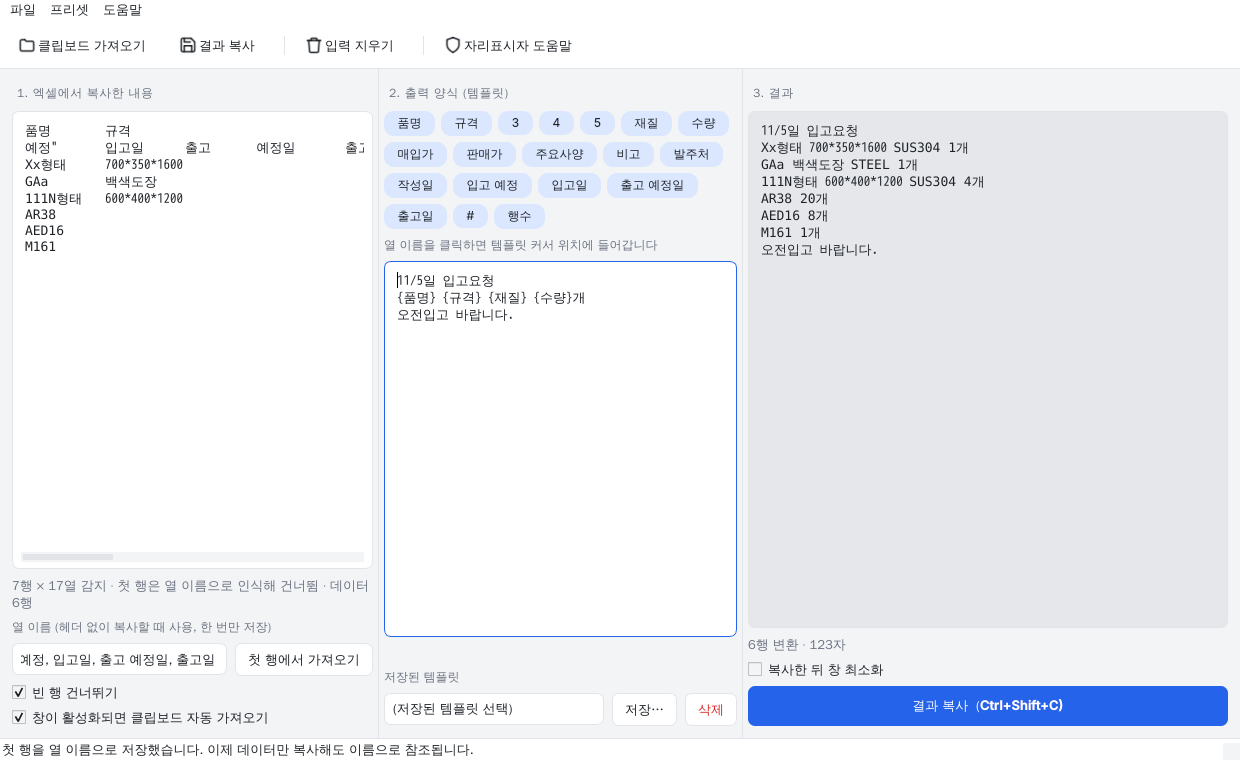
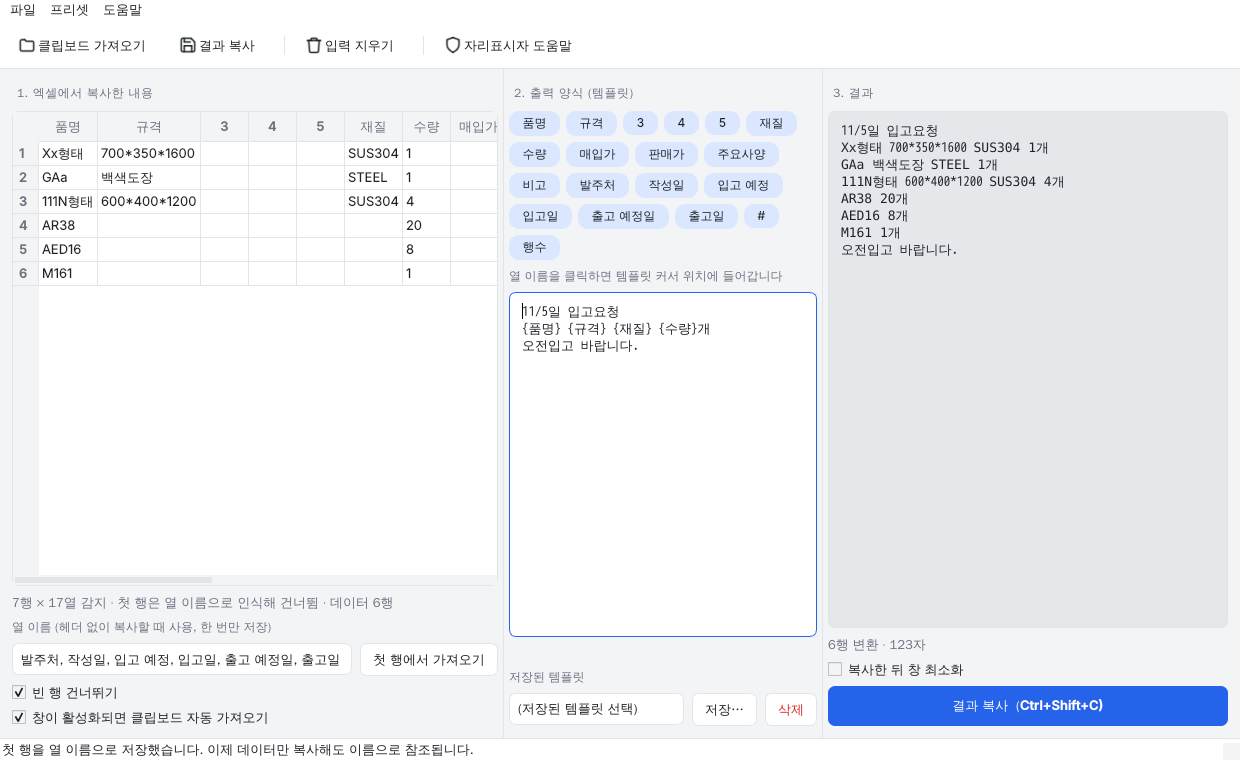
Excel Paster: 복사한 내용을 엑셀처럼 격자 표로 표시
탭 구분 텍스트를 날것으로 보여 주면 값 길이에 따라 줄이 어긋나고 셀 안
줄바꿈이 있는 칸은 두 줄로 쪼개져 "열이 안 맞는" 것처럼 보였음. 왼쪽을
QTableWidget 격자로 바꿔 열 머리글(인식된 열 이름)과 셀이 그대로 보이게 함.
붙여넣기는 격자/안내 화면에서 Ctrl+V 또는 안내 화면 클릭.

Claude-Session: https://claude.ai/code/session_01BsTnYST2jFKeuSFEv2JFZG

diff --git a/excelpaster/gui.py b/excelpaster/gui.py
@@ -12,6 +12,7 @@ from PySide6.QtWidgets import (
     QCheckBox,
     QComboBox,
     QFileDialog,
+    QFrame,
     QHBoxLayout,
     QInputDialog,
     QLabel,
@@ -22,6 +23,9 @@ from PySide6.QtWidgets import (
     QPlainTextEdit,
     QPushButton,
     QSplitter,
+    QStackedWidget,
+    QTableWidget,
+    QTableWidgetItem,
     QToolBar,
     QToolButton,
     QVBoxLayout,
@@ -35,6 +39,7 @@ from masker import theme
 APP_NAME = "Excel Paster"
 ORG_NAME = "LocalTools"
 MAX_PREVIEW_CELLS = 200_000  # 이보다 큰 표는 미리보기만 생략 (복사는 됨)
+MAX_GRID_ROWS = 500          # 왼쪽 격자 표에 보여 줄 최대 행 수
 
 
 def _extra_stylesheet(t: dict[str, str]) -> str:
@@ -45,6 +50,14 @@ def _extra_stylesheet(t: dict[str, str]) -> str:
         selection-color: {t['accent_fg']}; }}
     QPlainTextEdit:focus, QLineEdit:focus, QComboBox:focus {{ border: 1px solid {t['accent']}; }}
     QPlainTextEdit[readOnly="true"] {{ background: {t['canvas']}; }}
+    QTableWidget {{ background: {t['panel']}; border: 1px solid {t['border']}; border-radius: 7px;
+        gridline-color: {t['border']}; selection-background-color: {t['selected']};
+        selection-color: {t['text']}; outline: none; }}
+    QHeaderView::section {{ background: {t['bg']}; color: {t['muted']}; border: none;
+        border-right: 1px solid {t['border']}; border-bottom: 1px solid {t['border']};
+        padding: 4px 6px; font-weight: 600; }}
+    QTableCornerButton::section {{ background: {t['bg']}; border: none; }}
+    QFrame#dropzone:hover {{ border-color: {t['accent']}; }}
     QComboBox::drop-down {{ border: none; width: 22px; }}
     QComboBox QAbstractItemView {{ background: {t['panel']}; border: 1px solid {t['border']};
         selection-background-color: {t['selected']}; selection-color: {t['text']}; outline: none; }}
@@ -145,7 +158,7 @@ class MainWindow(QMainWindow):
         QGuiApplication.styleHints().colorSchemeChanged.connect(lambda _: self._apply_theme())
         self._restore_state()
         self._reload_preset_combo()
-        self.input.setFocus()
+        self.paste_hint.setFocus()
 
     # ------------------------------------------------------------ UI
 
@@ -215,13 +228,39 @@ class MainWindow(QMainWindow):
         m.addAction(self.act_help)
 
     def _build_ui(self) -> None:
-        # 1. 입력
-        self.input = QPlainTextEdit()
-        self.input.setFont(self._mono())
-        self.input.setPlaceholderText("엑셀에서 셀 범위를 복사한 뒤 여기에 Ctrl+V 로 붙여넣으세요.\n"
-                                      "창이 활성화될 때 클립보드를 자동으로 가져오는 옵션도 있습니다.")
-        self.input.setLineWrapMode(QPlainTextEdit.LineWrapMode.NoWrap)
-        self.input.textChanged.connect(self._on_input_changed)
+        # 1. 입력: 복사한 내용을 엑셀처럼 격자 표로 보여 준다 (붙여넣기는 Ctrl+V 또는 안내 화면 클릭)
+        self._raw = ""
+        self.grid = QTableWidget()
+        self.grid.setEditTriggers(QTableWidget.EditTrigger.NoEditTriggers)
+        self.grid.setSelectionMode(QTableWidget.SelectionMode.NoSelection)
+        self.grid.setAlternatingRowColors(False)
+        self.grid.setWordWrap(False)
+        self.grid.verticalHeader().setDefaultSectionSize(24)
+        self.grid.horizontalHeader().setHighlightSections(False)
+        self.grid.horizontalHeader().setStretchLastSection(False)
+        self.grid.setFocusPolicy(Qt.FocusPolicy.StrongFocus)
+        self.grid.installEventFilter(self)
+
+        self.paste_hint = QFrame()
+        self.paste_hint.setObjectName("dropzone")
+        self.paste_hint.setCursor(Qt.CursorShape.PointingHandCursor)
+        self.paste_hint.setFocusPolicy(Qt.FocusPolicy.StrongFocus)
+        self.paste_hint.installEventFilter(self)
+        hint_lay = QVBoxLayout(self.paste_hint)
+        hint_lay.setAlignment(Qt.AlignmentFlag.AlignCenter)
+        hint_title = QLabel("엑셀에서 복사한 뒤 Ctrl+V")
+        hint_title.setObjectName("welcomeTitle")
+        hint_title.setAlignment(Qt.AlignmentFlag.AlignCenter)
+        hint_sub = QLabel("또는 이 칸을 클릭하면 클립보드 내용을 가져옵니다.\n"
+                          "창이 활성화될 때 자동으로 가져오는 옵션이 기본으로 켜져 있습니다.")
+        hint_sub.setObjectName("hint")
+        hint_sub.setAlignment(Qt.AlignmentFlag.AlignCenter)
+        hint_lay.addWidget(hint_title)
+        hint_lay.addWidget(hint_sub)
+
+        self.input = QStackedWidget()
+        self.input.addWidget(self.paste_hint)
+        self.input.addWidget(self.grid)
         self.input_status = QLabel("")
         self.input_status.setObjectName("ok")
         self.input_status.setWordWrap(True)
@@ -421,11 +460,51 @@ class MainWindow(QMainWindow):
 
     def _set_input(self, text: str) -> None:
         self._last_imported = text
-        self.input.setPlainText(text)
+        self._raw = text
+        self._on_input_changed()
 
     def _clear_input(self) -> None:
-        self.input.clear()
+        self._raw = ""
         self._last_imported = ""
+        self._on_input_changed()
+
+    def eventFilter(self, obj, event) -> bool:  # noqa: N802
+        # 격자 표나 안내 화면에서 Ctrl+V → 클립보드 가져오기, 안내 화면 클릭도 같은 동작
+        if obj in (self.grid, self.paste_hint):
+            if event.type() == QEvent.Type.KeyPress and event.matches(QKeySequence.StandardKey.Paste):
+                self._paste_clipboard()
+                return True
+            if obj is self.paste_hint and event.type() == QEvent.Type.MouseButtonRelease:
+                self._paste_clipboard()
+                return True
+        return super().eventFilter(obj, event)
+
+    def _fill_grid(self, headers: list[str], data: core.Table, is_header: bool) -> None:
+        """복사한 내용을 격자 표로. 열 머리글은 인식된 열 이름(없으면 번호)."""
+        if not self.table:
+            self.input.setCurrentWidget(self.paste_hint)
+            self.grid.clear()
+            self.grid.setRowCount(0)
+            self.grid.setColumnCount(0)
+            return
+        self.input.setCurrentWidget(self.grid)
+        rows = data[:MAX_GRID_ROWS]
+        self.grid.setUpdatesEnabled(False)
+        try:
+            self.grid.clear()
+            self.grid.setColumnCount(len(headers))
+            self.grid.setHorizontalHeaderLabels(core.column_names(headers))
+            self.grid.setRowCount(len(rows))
+            for r, row in enumerate(rows):
+                for c, val in enumerate(row):
+                    item = QTableWidgetItem(val.replace("\r\n", " ⏎ ").replace("\n", " ⏎ "))
+                    item.setToolTip(val) if ("\n" in val or len(val) > 40) else None
+                    self.grid.setItem(r, c, item)
+            self.grid.resizeColumnsToContents()
+            for c in range(len(headers)):
+                self.grid.setColumnWidth(c, min(max(self.grid.columnWidth(c), 48), 260))
+        finally:
+            self.grid.setUpdatesEnabled(True)
 
     def _known_headers(self) -> list[str]:
         return core.parse_column_names(self.col_names.text())
@@ -434,7 +513,7 @@ class MainWindow(QMainWindow):
         return core.resolve_table(self.table, self._current_spec(), self._known_headers())
 
     def _on_input_changed(self) -> None:
-        self.table = core.parse_table(self.input.toPlainText())
+        self.table = core.parse_table(self._raw)
         self.btn_grab_header.setEnabled(bool(self.table))
         self._refresh_chips()
         self._debounce.start()
@@ -458,7 +537,8 @@ class MainWindow(QMainWindow):
             return
         rows, cols = len(self.table), len(self.table[0])
         how = "첫 행은 열 이름으로 인식해 건너뜀" if is_header else "모든 행을 데이터로 처리"
-        self.input_status.setText(f"{rows}행 × {cols}열 감지 · {how} · 데이터 {data_rows}행")
+        more = f" (표에는 {MAX_GRID_ROWS}행까지만 표시)" if data_rows > MAX_GRID_ROWS else ""
+        self.input_status.setText(f"{rows}행 × {cols}열 감지 · {how} · 데이터 {data_rows}행{more}")
 
     # ------------------------------------------------------------ 양식
 
@@ -504,10 +584,12 @@ class MainWindow(QMainWindow):
             self.output.setPlainText("")
             self.output_status.setText("")
             self.input_status.setText("")
+            self._fill_grid([], [], False)
             self.btn_copy.setEnabled(False)
             return
         headers, data, is_header = core.resolve_table(self.table, spec, self._known_headers())
         self._update_input_status(is_header, len(data))
+        self._fill_grid(headers, data, is_header)
         unknown = core.unknown_placeholders(spec.template, headers)
         if unknown:
             hint = "" if self._known_headers() or is_header else " — 헤더 없이 복사했다면 왼쪽 '열 이름'을 저장하세요"
